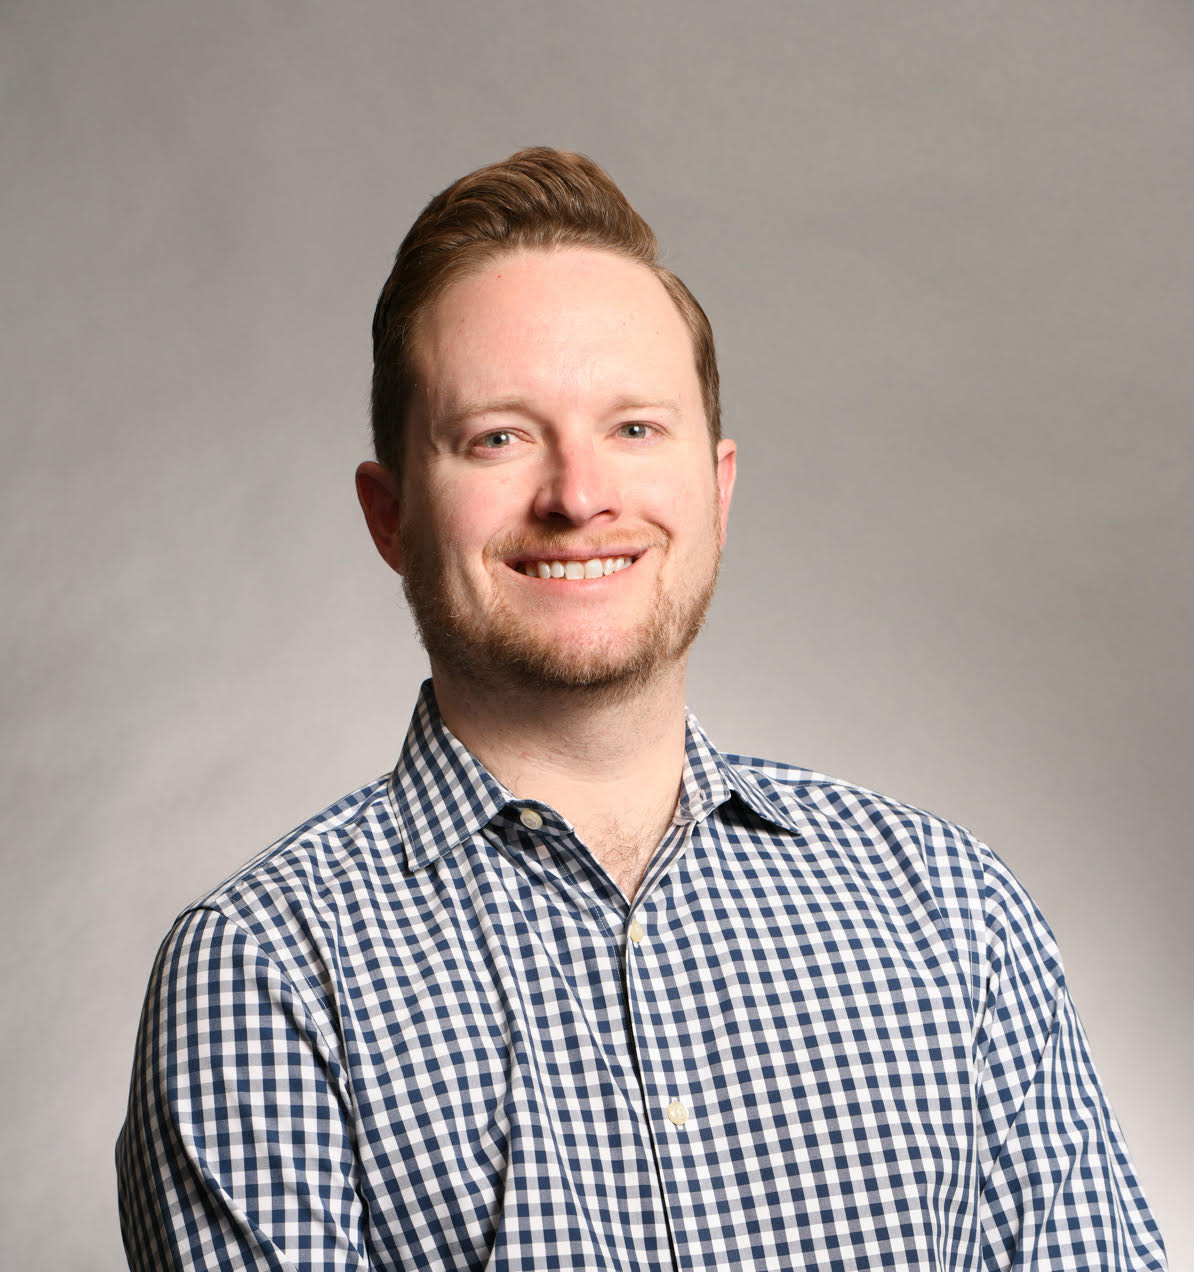
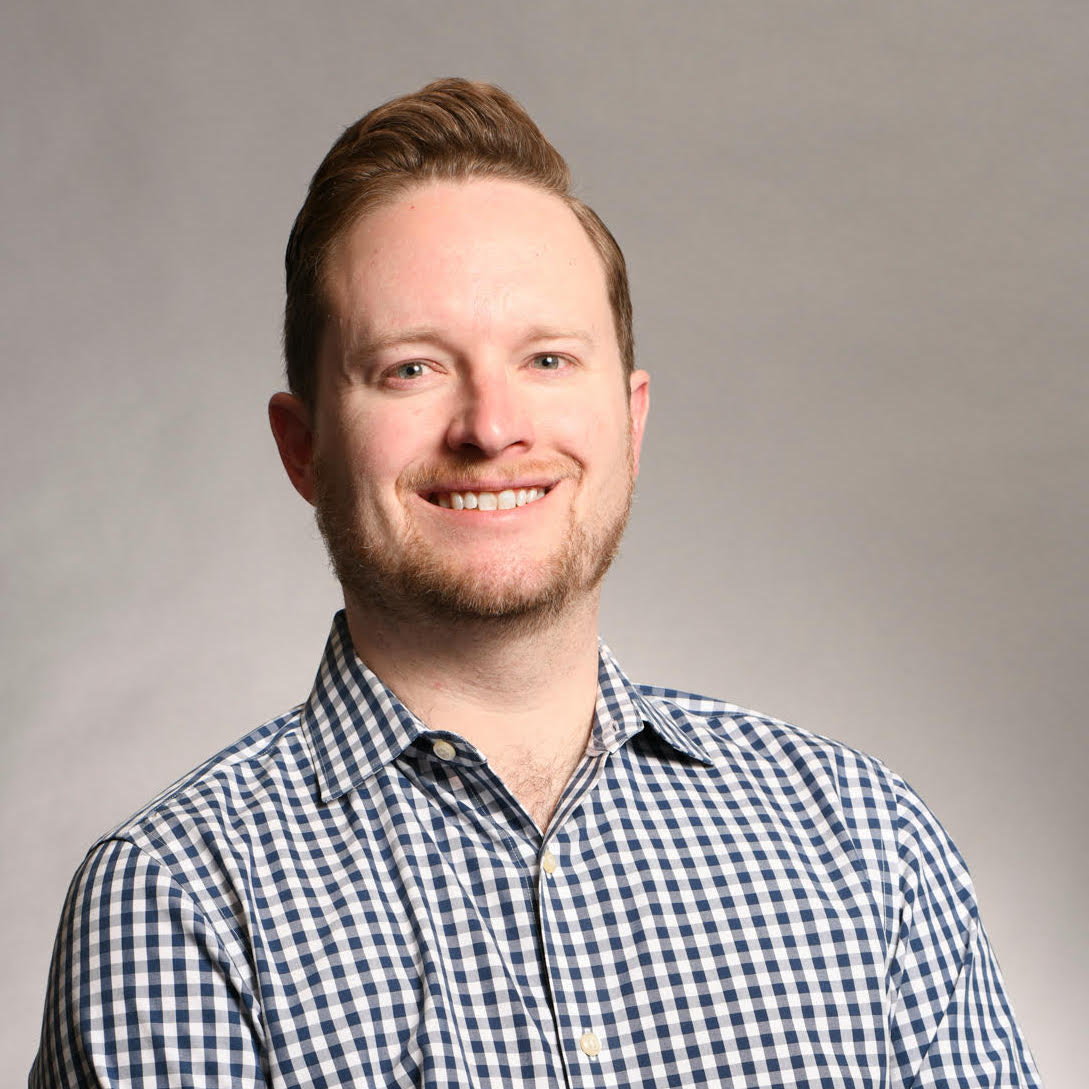
cleaned up and aligned team photos

diff --git a/quarkus-cafe-web/src/main/resources/META-INF/resources/index.html b/quarkus-cafe-web/src/main/resources/META-INF/resources/index.html
@@ -724,35 +724,35 @@
           </div>
         </div>
         <div class="row team-boxes">
-          <div class="col-sm-12 col-md-6 col-lg-3">
+          <div class="col-md-2 col-md-offset-1">
             <div class="box wow fadeInUp" data-wow-duration="400ms" data-wow-offset="10">
-              <img src="images/headshots/emmanuel-conf.jpg" alt="Emmanuel Bernard" />
+              <img src="images/headshots/emmanuel-bernard.jpg" alt="Emmanuel Bernard" />
               <h6>Emmanuel Bernard</h6>
               <p>Head Barista</p>
             </div>
           </div>
-          <div class="col-sm-12 col-md-6 col-lg-3">
+          <div class="col-md-2">
             <div class="box wow fadeInUp" data-wow-duration="800ms" data-wow-offset="10">
-              <img src="images/headshots/jason-greene.jpg" alt="team2" />
+              <img src="images/headshots/jason-greene.jpg" alt="Jason Greene" />
               <h6>Jason Greene</h6>
               <p>Head Chef</p>
             </div>
           </div>
-          <div class="col-sm-12 col-md-6 col-lg-3">
+          <div class="col-md-2">
             <div class="box wow fadeInUp" data-wow-duration="1.2s" data-wow-offset="10">
               <img src="images/headshots/ken_avatar_2019.png" alt="Ken Finnigan" />
               <h6>Ken Finnigan</h6>
               <p>Store Manager</p>
             </div>
           </div>
-          <div class="col-sm-12 col-md-6 col-lg-3">
+          <div class="col-md-2">
             <div class="box wow fadeInUp" data-wow-duration="1.6s" data-wow-offset="10">
               <img src="images/headshots/max-andersen.jpg" alt="Max Andersen" />
               <h6>Max Andersen</h6>
               <p>Store Owner</p>
             </div>
           </div>
-          <div class="col-sm-12 col-md-6 col-lg-3">
+          <div class="col-md-2">
             <div class="box wow fadeInUp" data-wow-duration="1.6s" data-wow-offset="10">
               <img src="images/headshots/clement_escoffier.jpeg" alt="Clement Escoffier" />
               <h6>Clement Escoffier</h6>
